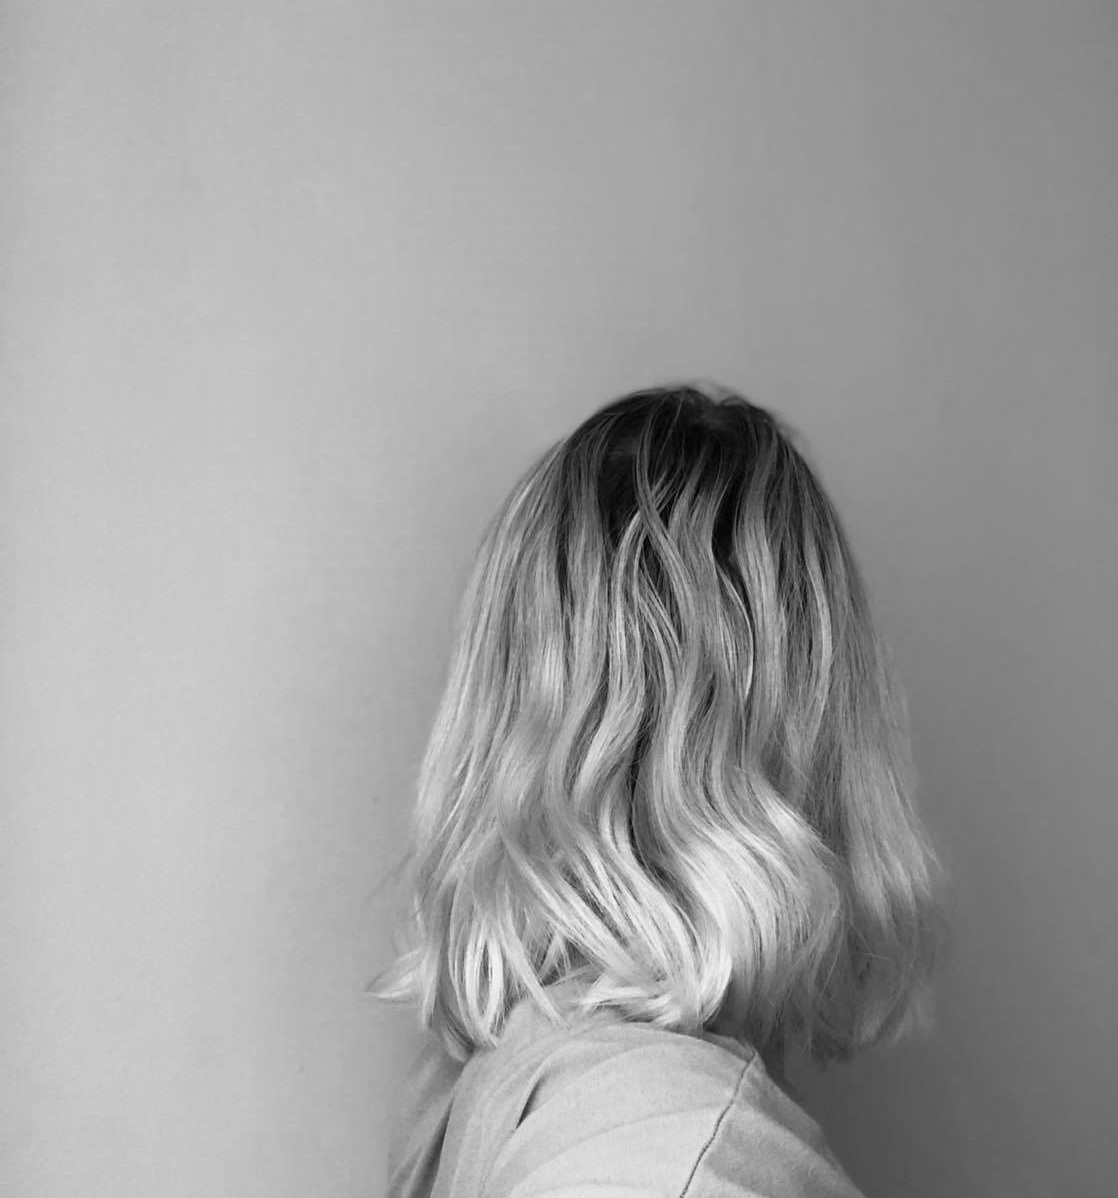
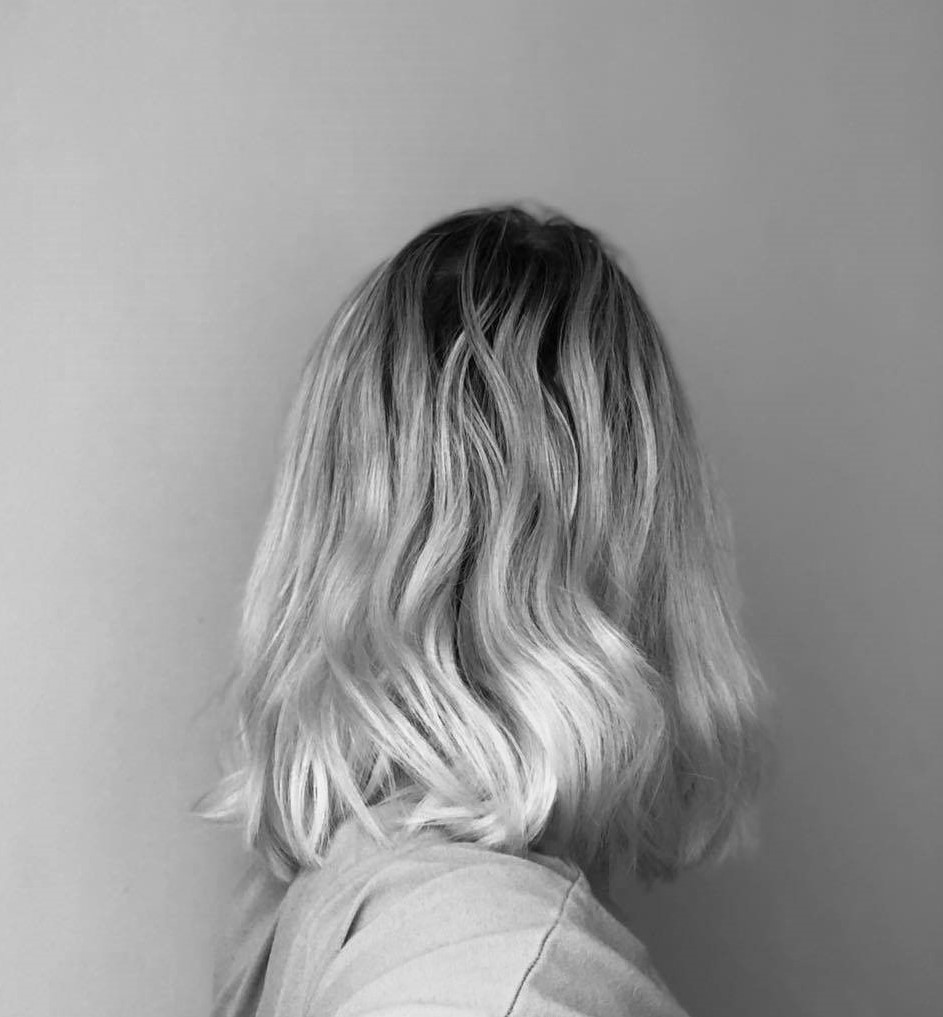
feat: Add images moving effect

Changed region(s): [[0.1538, 0.1829, 0.8303, 1.0]]

diff --git a/src/components/ProfileImages/index.js b/src/components/ProfileImages/index.js
@@ -21,22 +21,42 @@ const showAndHideImages = () => {
     {
       scale: 0.9,
       opacity: 0,
+      y: -10,
     },
     {
       scale: 1,
       opacity: 1,
       duration: 0.3,
+      y: 0,
     },
   );
   tl.to('#profile-images', {
-    scale: 1,
-    opacity: 1,
+    scale: 1.1,
     duration: 1,
   });
+  tl.to(
+    '#profile-image-back',
+    {
+      scale: 1.3,
+      duration: 1,
+      transformOrigin: 'center',
+    },
+    '<+=0',
+  );
+  tl.to(
+    '#profile-image-front',
+    {
+      scale: 1.2,
+      duration: 1,
+      transformOrigin: 'center',
+    },
+    '<+=0',
+  );
   tl.to('#profile-images', {
-    scale: 1.1,
+    scale: 1.2,
     opacity: 0,
     duration: 0.3,
+    y: 10,
   });
 };
 
@@ -49,16 +69,26 @@ const ProfileImages = () => {
   return (
     <div id="profile">
       <div id="profile-images" className="relative h-96">
-        <img
-          src={profileBack}
-          className="absolute left-1/2 opacity-50 top-36 w-1/3"
-          alt="Profile of me"
-        ></img>
-        <img
-          src={profileFront}
+        <div
+          className="absolute opacity-30 top-36 w-1/3"
+          style={{ clipPath: 'inset(10px 10px)', left: '40%' }}
+        >
+          <img
+            id="profile-image-back"
+            src={profileBack}
+            alt="Profile of me"
+          ></img>
+        </div>
+        <div
           className="absolute left-1/3 top-8 w-1/4"
-          alt="Profile of me"
-        ></img>
+          style={{ clipPath: 'inset(10px 10px)' }}
+        >
+          <img
+            id="profile-image-front"
+            src={profileFront}
+            alt="Profile of me"
+          ></img>
+        </div>
       </div>
     </div>
   );
